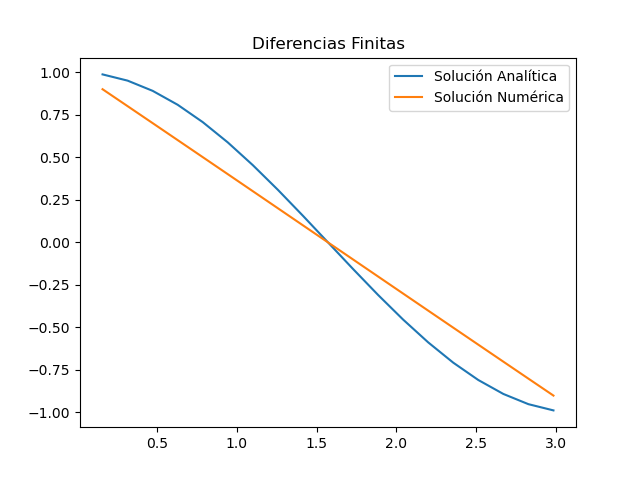
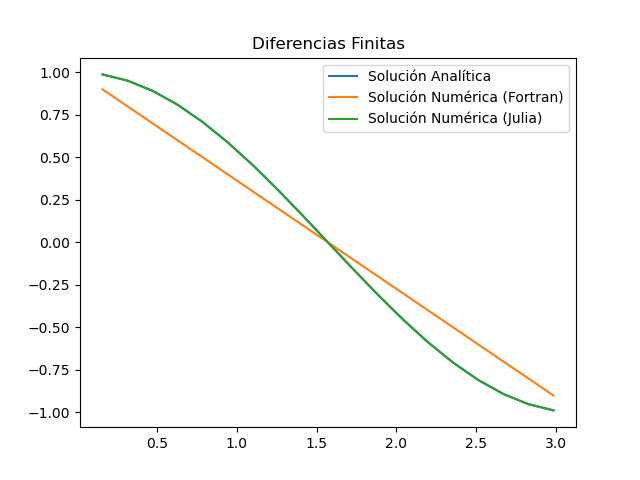
Actualiza la gráfica con los resultados de Julia

diff --git a/examen-02-plot.py b/examen-02-plot.py
@@ -2,15 +2,17 @@ import numpy as np
 import matplotlib.pyplot as plt
 
 # Carga los datos
-input_data = np.loadtxt('resultados.dat', usecols=(0,1,2))
-x = input_data[:,0]
-y = input_data[:,1] # Solución numérica 
-u = input_data[:,2] # Solución analítica
+input_data_py = np.loadtxt('resultados.dat', usecols=(0,1,2))
+x = input_data_py[:,0]
+y = input_data_py[:,1] # Solución numérica 
+u = input_data_py[:,2] # Solución analítica
+y2 = np.loadtxt('resultados-julia.csv')
 
 # Hace la gráfica
 fig, ax = plt.subplots()
 ax.plot(x, u, label='Solución Analítica')
-ax.plot(x, y, label='Solución Numérica')
+ax.plot(x, y, label='Solución Numérica (Fortran)')
+ax.plot(x, y2, label='Solución Numérica (Julia)')
 ax.legend()
 ax.set_title('Diferencias Finitas')
 ax.set_xlabel=('x')
